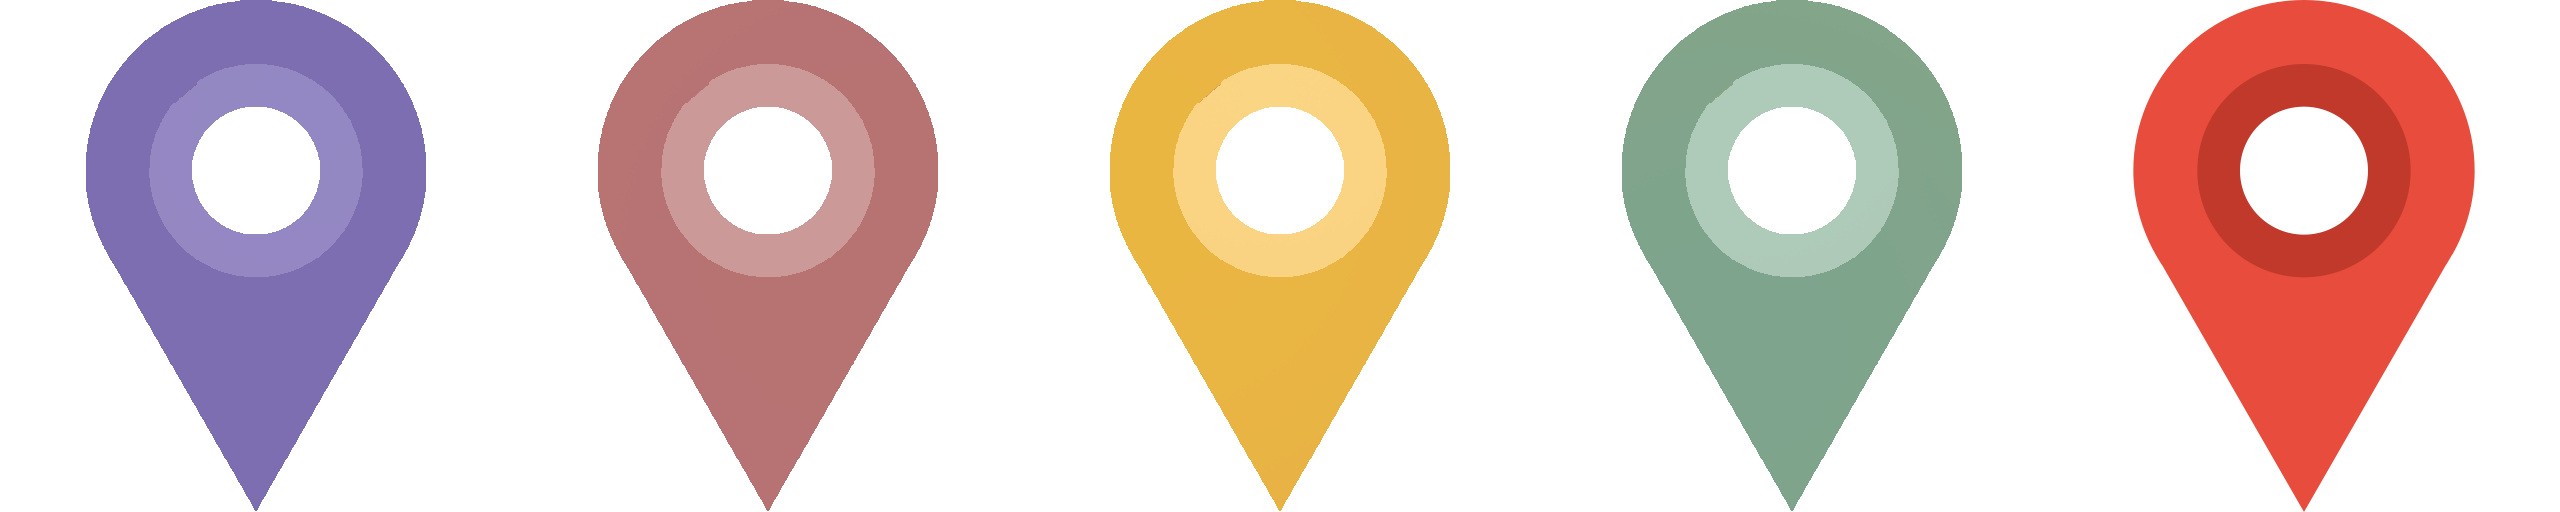
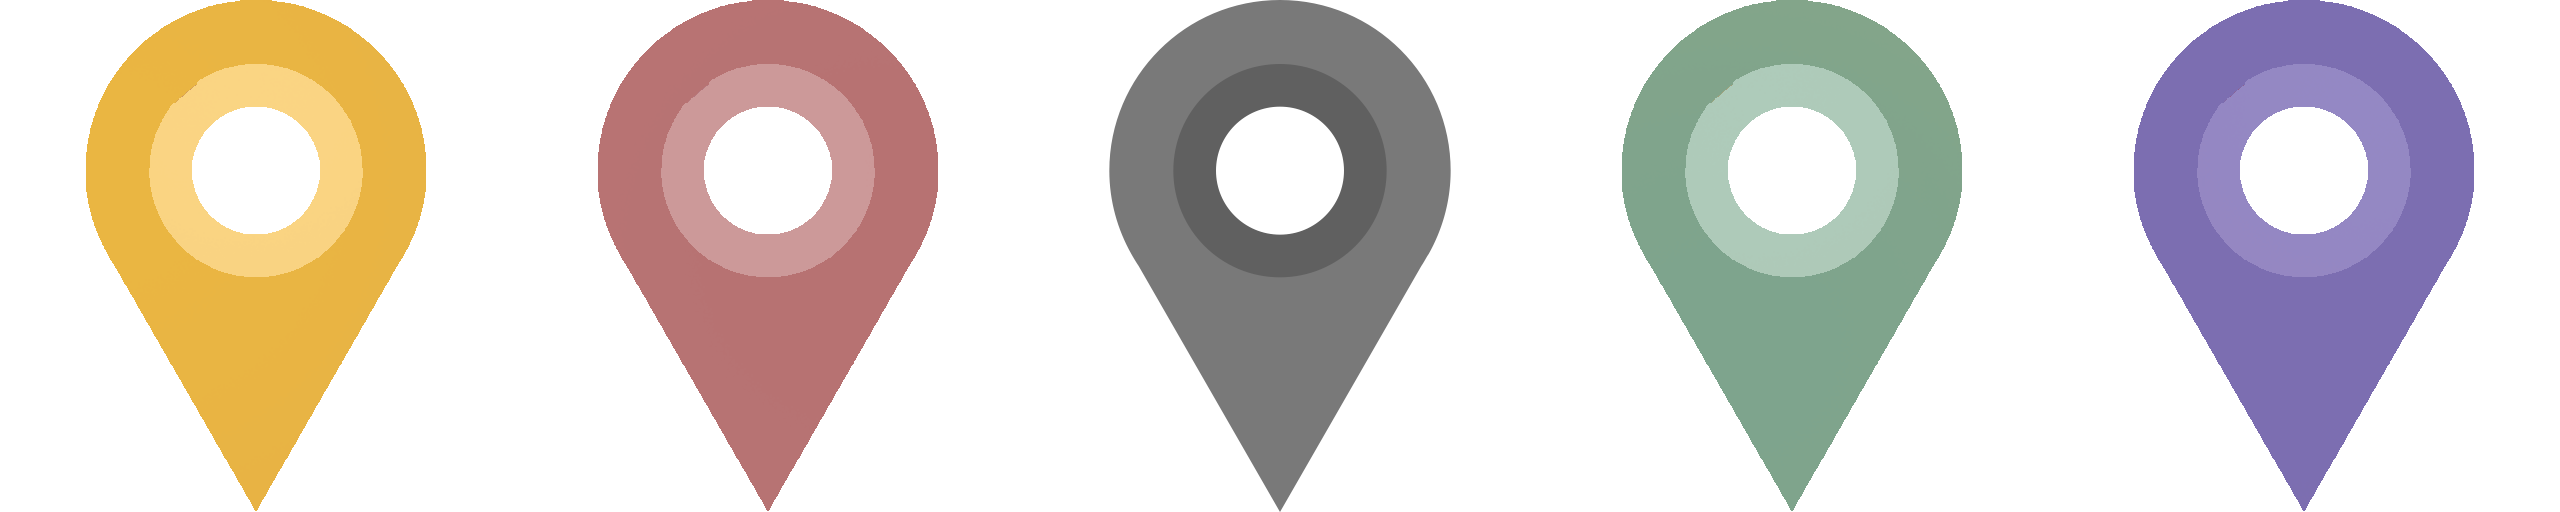
Cambio de tooltip y uso de nuevos equipamientos

Changed region(s): [[0.4062, 0.0, 0.5938, 0.9688], [0.8125, 0.0, 0.9688, 1.0], [0.0312, 0.0, 0.1875, 1.0]]

diff --git a/src/constants.tsx b/src/constants.tsx
@@ -53,14 +53,14 @@ export const getQuantiles = (data: any, metric: string): [any, string[]] => {
 export const BLOB_URL = "https://reimaginaurbanostorage.blob.core.windows.net";
 
 export const METRICS_MAPPING: GenericObject = {
-    "poblacion": { query: "pobtot", title: "Población Total", ranges: [0, 100, 200, 300, 400, 800], type: "number" },
+    "poblacion": { query: "pobtot", title: "Población Total", ranges: [50, 65, 80, 100, 130, 800], type: "number" },
     "viviendas_habitadas": { query: "vivpar_hab", title: "Viviendas Particulares Habitadas", ranges: [0, 25, 50, 100, 150, 200], type: "number" },
-    "viviendas_deshabitadas": { query: "VIVPAR_DES * 1.0 / VIVPAR_HAB * 100", title: "Porcentaje de Viviendas Particulares Deshabitadas", ranges: [0, 25, 50, 75, 100], type: "percentage" }, // rango de 0-89
-    "grado_escuela": { query: "graproes", title: "Grado Promedio de Escolaridad", ranges: [1, 6, 9, 12, 16, 18], type: "number" },
+    "viviendas_deshabitadas": { query: "GREATEST(VIVPAR_DES * 1.0 / NULLIF(VIVPAR_HAB, 0) * 100, 0)", title: "Porcentaje de Viviendas Particulares Deshabitadas", ranges: [0, 10, 20, 30, 40, 100], type: "percentage" }, // rango de 0-89
+    "grado_escuela": { query: "graproes", title: "Grado Promedio de Escolaridad", ranges: [6, 9, 10, 12, 16, 18], type: "number" },
     "indice_bienestar": { query: "puntuaje_hogar_digno * 100", title: "Índice de Bienestar", ranges: [0, 25, 50, 75, 100], type: "percentage" },
-    "viviendas_tinaco": { query: "vph_tinaco * 1.0 / NULLIF(vivpar_hab, 0) * 100", title: "Porcentaje de Viviendas con Tinaco", ranges: [0, 25, 50, 75, 100], type: "percentage" },
-    "viviendas_pc": { query: "vph_pc * 1.0 / NULLIF(vivpar_hab, 0) * 100", title: "Porcentaje de Viviendas con PC", ranges: [0, 25, 50, 75, 100], type: "percentage" },
-    "viviendas_auto":{ query: "vph_autom * 1.0 / NULLIF(vivpar_hab, 0) * 100", title: "Porcentaje de Viviendas con Vehiculo Privado", ranges: [0, 50, 70, 90, 100], type: "percentage" },
+    "viviendas_tinaco": { query: "LEAST(vph_tinaco * 1.0 / NULLIF(vivpar_hab, 0) * 100, 100)", title: "Porcentaje de Viviendas con Tinaco", ranges: [0, 15, 30, 60, 90, 100], type: "percentage" },
+    "viviendas_pc": { query: "LEAST(vph_pc * 1.0 / NULLIF(vivpar_hab, 0) * 100, 100)", title: "Porcentaje de Viviendas con PC", ranges: [0, 25, 35, 50, 60, 80, 100], type: "percentage" },
+    "viviendas_auto":{ query: "LEAST(vph_autom * 1.0 / NULLIF(vivpar_hab, 0) * 100, 100)", title: "Porcentaje de Viviendas con Vehiculo Privado", ranges: [40, 50, 60, 70, 80, 100], type: "percentage" },
     "minutes": {
         query: "minutes",
         title: "Minutos",
@@ -71,25 +71,25 @@ export const METRICS_MAPPING: GenericObject = {
     }
 }
 export const amenitiesOptions = [
-    { value: 'asistencial_social', label: 'Asistencia social', type: 'health' },
-    { value: 'laboratorios_clinicos', label: 'Laboratorios clínicos', type: 'health' },
-    { value: 'otros_consultorios', label: 'Otros consultorios', type: 'health' },
-    { value: 'consultorios_medicos', label: 'Consultorios médicos', type: 'health' },
+    // Salud
     { value: 'hospital_general', label: 'Hospital general', type: 'health' },
-    { value: 'hospitales_psiquiatricos', label: 'Hospitales psiquiátricos', type: 'health' },
-    { value: 'hospitales_otras_especialidades', label: 'Hospitales otras especialidades', type: 'health' },
+    { value: 'consultorios_medicos', label: 'Consultorios médicos', type: 'health' },
     { value: 'farmacia', label: 'Farmacia', type: 'health' },
+    // Recreativo
+    { value: 'parques_recreativos', label: 'Parques recreativos', type: 'park' },
     { value: 'clubs_deportivos_y_acondicionamiento_fisico', label: 'Clubs deportivos y de acondicionamiento físico', type: 'health' },
     { value: 'cine', label: 'Cine', type: 'recreation' },
     { value: 'otros_servicios_recreativos', label: 'Otros servicios recreativos', type: 'recreation' },
-    { value: 'parques_recreativos', label: 'Parques recreativos', type: 'park' },
-    { value: 'museos', label: 'Museos', type: 'recreation' },
-    { value: 'biblioteca', label: 'Biblioteca', type: 'recreation' },
+    // Educación
     { value: 'guarderia', label: 'Guarderia', type: 'education' },
     { value: 'educacion_preescolar', label: 'Educación preescolar', type: 'education' },
     { value: 'educacion_primaria', label: 'Educación primaria', type: 'education' },
     { value: 'educacion_secundaria', label: 'Educación secundaria', type: 'education' },
     { value: 'educacion_media_superior', label: 'Educación media superior', type: 'education' },
+    { value: 'educacion_superior', label: 'Educación superior', type: 'education' },
+    // Otros
+    { value: 'capilla', label: 'Capilla', type: 'other' },
+    { value: 'comedor', label: 'Comedor', type: 'other' },
 ];
 export const mappingGradoEscolaridad: GenericObject = {
     1: "1ero Primaria",
@@ -148,6 +148,7 @@ export const ACCESSIBILITY_POINTS_COLORS: GenericObject = {
     "health": "#7c6eb1",
     "recreation":  "#eab642",
     "park": "#7ea48d",
+    "other": "gray"
 }
 
 export const ZOOM_SHOW_DETAILS = 17;

diff --git a/src/layers/AccessibilityPointsLayer.tsx b/src/layers/AccessibilityPointsLayer.tsx
@@ -6,6 +6,8 @@ import { amenitiesOptions } from '../constants';
 import { useDispatch, useSelector } from 'react-redux';
 import { setAccessibilityList, setAccessibilityPoints } from '../features/accessibilityList/accessibilityListSlice';
 import { RootState } from '../app/store';
+import _ from 'lodash';
+import { Tooltip } from '../components';
 
 interface AccessibilityPointsProps {
     metric: string;
@@ -61,12 +63,12 @@ const useAccessibilityPointsLayer = ({ metric , coordinates }: AccessibilityPoin
         new IconLayer({
             id: 'icon-layer',
             data: polygons,
-            getIcon: (d: any) => amenitiesOptions.find(option => option.label === d.properties.amenity)?.type || "health",
+            getIcon: (d: any) => amenitiesOptions.find(option => option.label === d.properties.amenity)?.type || "other",
             getPosition: (d: any) => d.geometry.coordinates,
             getSize: 40,
             iconAtlas: 'images/amenities.png',
             iconMapping: {
-                "health": {
+                "recreation": {
                     x: 0,
                     y: 0,
                     width: 512,
@@ -82,7 +84,7 @@ const useAccessibilityPointsLayer = ({ metric , coordinates }: AccessibilityPoin
                     mask: false,
                     anchorY: 512, // Align the center at the bottom
                 },
-                "recreation": {
+                "other": {
                     x: 1024,
                     y: 0,
                     width: 512,
@@ -98,29 +100,17 @@ const useAccessibilityPointsLayer = ({ metric , coordinates }: AccessibilityPoin
                     mask: false,
                     anchorY: 512, // Align the center at the bottom
                 },
+                "health": {
+                    x: 2048,
+                    y: 0,
+                    width: 512,
+                    height: 512,
+                    mask: false,
+                    anchorY: 512, // Align the center at the bottom
+                },
             },
             zIndex: 1000,
             pickable: true,
-            onHover: ({ x, y, object }) => {
-                iconHover(x, y, object);
-            },
-        }),
-        hoverInfo && new TextLayer({
-            id: 'text-layer',
-            data: [hoverInfo],
-            getPosition:( d: any ) => d.object.geometry.coordinates,  // Adjust depending on your data
-            getText: ( d: any) => d.object.properties.amenity,  // Customize based on your data properties
-            getPixelOffset: [0, -50],
-            getSize: 16,
-            getColor: [255, 255, 255],
-            background: true,
-            backgroundColor: [0, 0, 0, 150], // Semi-transparent black background
-            backgroundPadding: [6, 4], // Horizontal and vertical padding
-            getTextAnchor: 'middle',
-            getAlignmentBaseline: 'bottom',
-            fontFamily: '"Arial", sans-serif',
-            zIndex: 1000,
-            characterSet: 'ABCDEFGHIJKLMNOPQRSTUVWXYZabcdefghijklmnopqrstuvwxyz0123456789éó', // Include special characters
         }),
     ];
 };

diff --git a/src/components/BaseMap/BaseMap.tsx b/src/components/BaseMap/BaseMap.tsx
@@ -4,13 +4,13 @@ import { GeoJsonLayer } from "@deck.gl/layers";
 import { Map } from "react-map-gl";
 import { useFetchGeo } from "../../utils";
 import { INITIAL_STATE } from "../../constants";
-import axios from "axios";
 import { useDispatch, useSelector } from "react-redux";
 import { AppDispatch, RootState } from "../../app/store";
 import { debounce } from "lodash";
 import { Layers, Legend } from "../index";
 import { setViewState } from "../../features/viewState/viewStateSlice";
 import "./BaseMap.scss";
+import _ from "lodash";
 
 interface BaseMapProps {
     isSatellite?: boolean;
@@ -92,6 +92,18 @@ const BaseMap: React.FC<BaseMapProps> = ({ isSatellite }: BaseMapProps) => {
                 layers={[poligonLayer, ...layers, coloniasLayer]}
                 viewState={{ ...localViewState }}
                 onViewStateChange={handleViewStateChange}
+                getTooltip={({ object }: any): any => {
+                    if (!object || !object.properties.name) return null;
+                    return {
+                        html: `<div>
+                            <p><b>Nombre:</b> ${_.capitalize(object.properties.name)}</p>
+                            <p><b>Categoría:</b> ${object.properties.amenity}</p>
+                            ${object.properties.opportunities_ratio ? `<p><b>Potencial de Aprovechamiento:</b> ${Math.round(object.properties.opportunities_ratio * 100)}%</p>` : ''}
+                            <p><b>Visitas:</b> XX</p>
+                            <p><b>Población Alcance:</b> XX</p>
+                        </div>`
+                };
+                }}
             >
                 <Map
                     mapStyle={

diff --git a/src/layers/AmenitiesLayer.tsx b/src/layers/AmenitiesLayer.tsx
@@ -6,21 +6,12 @@ import { useState } from "react";
 import { RootState } from "../app/store";
 import { amenitiesOptions, VIEW_MODES } from "../constants";
 
-// const METRIC_COLOR: GenericObject = {
-//     landuse_parking: [120, 120, 120, 255],
-//     landuse_equipment: [180, 0, 180, 255],
-//     landuse_green: [160, 200, 160, 255],
-//     landuse_park: [0, 130, 0, 255],
-//     establishments: [0, 255, 0, 255],
-//     landuse_building: [255, 255, 0, 255],
-//     points: [255, 0, 0, 255],
-// };
-
 const METRIC_COLOR: GenericObject = {
-    health: [124, 110, 177, 255],
-    park: [126, 164, 141, 255],
-    recreation: [234, 182, 66, 255],
+    health: [149, 136, 196, 255],
+    park: [174, 202, 186, 255],
+    recreation: [249, 212, 131, 255],
     education: [204, 153, 153, 255],
+    other: [151, 151, 151, 255],
 };
 
 const useAmenitiesLayer = ({coordinates, metric}: any) => {
@@ -47,7 +38,7 @@ const useAmenitiesLayer = ({coordinates, metric}: any) => {
             },
             getLineWidth: 0,
             pickable: true,
-        })
+        }),
     ];
 };
 

diff --git a/src/components/Layers/Layers.tsx b/src/components/Layers/Layers.tsx
@@ -1,8 +1,7 @@
-import React, { useEffect, useMemo, useState } from "react";
+import { useEffect, useMemo, useState } from "react";
 import { useDispatch, useSelector } from "react-redux";
 import { AppDispatch, RootState } from "../../app/store";
-import { getQuantiles, INITIAL_STATE, METRICS_MAPPING, POLYGON_MODES, VIEW_COLORS_RGBA, VIEW_MODES, ZOOM_SHOW_DETAILS } from "../../constants";
-import { RGBAColor, TextLayer } from "deck.gl";
+import { INITIAL_STATE, METRICS_MAPPING, POLYGON_MODES, VIEW_MODES } from "../../constants";
 import { DrawPolygonMode, ModifyMode } from "@nebula.gl/edit-modes";
 import { setSelectedLots } from "../../features/selectedLots/selectedLotsSlice";
 import { EditableGeoJsonLayer } from "@nebula.gl/layers";

diff --git a/src/components/SelectAutoComplete/SelectAutoComplete.tsx b/src/components/SelectAutoComplete/SelectAutoComplete.tsx
@@ -20,7 +20,8 @@ export const mappingCategories: any = {
   health: 'Salud',
   recreation: 'Recreación',
   education: 'Educación',
-  park: "Parques"
+  park: 'Parque',
+  other: 'Otro',
 };
 
 const SelectAutoComplete = () => {
@@ -89,7 +90,7 @@ const SelectAutoComplete = () => {
       const someSelected = amenities.some((amenity) => checkedItems[amenity.value]);
 
       if (allSelected) {
-        summary.push(category.charAt(0).toUpperCase() + category.slice(1));
+        summary.push(mappingCategories[category]);
       } else if (someSelected) {
         amenities.forEach((amenity) => {
           if (checkedItems[amenity.value]) {
